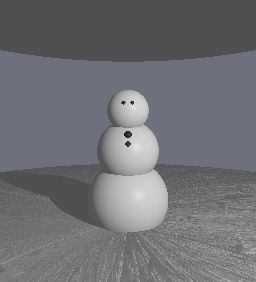
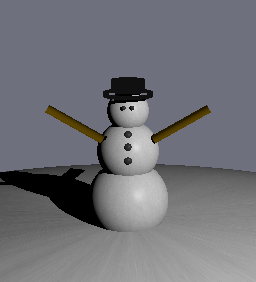
messing around with textures

diff --git a/C2.py b/C2.py
@@ -8,20 +8,27 @@ ground_white = Material(vec([0.85, 0.85, 0.85]), k_m=0.4)
 cieling_gray = Material(vec([0.8, 0.8, 0.85]), k_s=0.3, p=90)
 coal_black = Material(vec([0.05, 0.05, 0.05]), k_s=0.2, p=90)
 branch_brown = Material(vec([0.169, 0.094, 0]))
+
 rock_texture = np.array(Image.open("./textures/rock.jpg"))
 rock_material = Material(vec([0.8, 0.8, 0.85]), k_s=0.3, p=90, texture=rock_texture)
 
+snow_texture = np.array(Image.open("./textures/snow.jpg"))
+snow_material = Material(vec([0, 0, 0]), k_s = .3, p=90, texture=snow_texture)
+
+ice_texture = np.array(Image.open("./textures/ice1.png"))
+ice_material = Material(vec([0, 0, 0]), k_s = .3, p=90, texture=ice_texture)
+
 scene = Scene([
     # snowman body
-    Sphere(vec([0, 0, 0]), 1, snowman_white),
-    Sphere(vec([0, 1.25, 0]), 0.75, snowman_white),
-    Sphere(vec([0, 2.25, 0]), 0.5, snowman_white),
+    Sphere(vec([0, 0, 0]), 1, snow_material),
+    Sphere(vec([0, 1.25, 0]), .75, snow_material),
+    Sphere(vec([0, 2.25, 0]), 0.5, snow_material),
 
     # ground
-    Sphere(vec([0, -40, 0]), 39.5, rock_material),
+    Sphere(vec([0, -40, 0]), 39.5, snow_material),
 
     # ceiling
-    Sphere(vec([0, 5.9, 14]), 1, cieling_gray),
+    #Sphere(vec([0, 43.5, 0]), 39.5, cieling_gray),
 
     # coals (eyes)
     Sphere(vec([0.1, 2.4, 0.5]), 0.05, coal_black),
@@ -33,7 +40,7 @@ scene = Scene([
     Sphere(vec([0, 1.2, 0.7]), 0.1, coal_black),
 
     # icicles
-    # Cone(vec([2, 0, 0]), .1, cieling_gray),
+    #Cone(vec([2, 0, 0]), .1, 3, cieling_gray),
 
     # hat
     Cylinder(vec([0,2.6,0]), 0.6, 0.1, 0, coal_black),

diff --git a/ray.py b/ray.py
@@ -448,7 +448,6 @@ class PointLight:
                     x_vec = np.array([surf.radius, 0, 0])
                     y_vec = np.array([0, surf.radius, 0])
                     point_vec_proj = np.array([point_vec[0], 0, point_vec[2]])
-                    dot = np.dot(x_vec, point_vec_proj)
                     phi = np.arccos(np.dot(x_vec, point_vec_proj)/(np.linalg.norm(x_vec)*np.linalg.norm(point_vec_proj)))
                     theta = np.arccos(np.dot(y_vec, point_vec)/(np.linalg.norm(y_vec)*np.linalg.norm(point_vec)))
 
@@ -466,7 +465,11 @@ class PointLight:
 
                     diffuse = hit.material.texture[y,x]
                     diffuse = diffuse/255
-                    print(diffuse)
+                    #print(diffuse)
+                """ elif type(surf) == Cylinder and hit.material.texture is not None:
+                    theta = np.arccos(np.dot(surf.normal, vec([1, 0, 0]))/np.linalg.norm(surf.normal))
+                    y = hit.point[1] """
+                     
 
                 shading = (diffuse + surf.material.k_s * (n @ h)**surf.material.p) * self.intensity * \
                     np.clip((n @ l),
